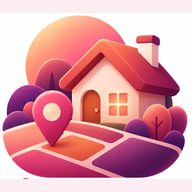
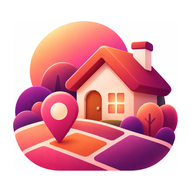
Add files via upload

diff --git a/index.html b/index.html
@@ -21,7 +21,7 @@
             color: #3C1037; font: 500 16px/1.5 'Sarabun', 'Leelawadee UI', 'Thonburi', sans-serif;
             background: #FBEDF1; transition: opacity .3s; }
   #splash.hide { opacity: 0; pointer-events: none; }
-  #splash img { width: 112px; height: 112px; border-radius: 26px; display: block; margin: 0 auto 14px; }
+  #splash img { width: 112px; height: 112px; border-radius: 26px; background: #fff; display: block; margin: 0 auto 14px; }
   .spin { width: 34px; height: 34px; margin: 0 auto 12px; border-radius: 50%;
           border: 4px solid rgba(207,50,94,.18); border-top-color: #D94A3A; animation: spin 1s linear infinite; }
   @keyframes spin { to { transform: rotate(360deg); } }
